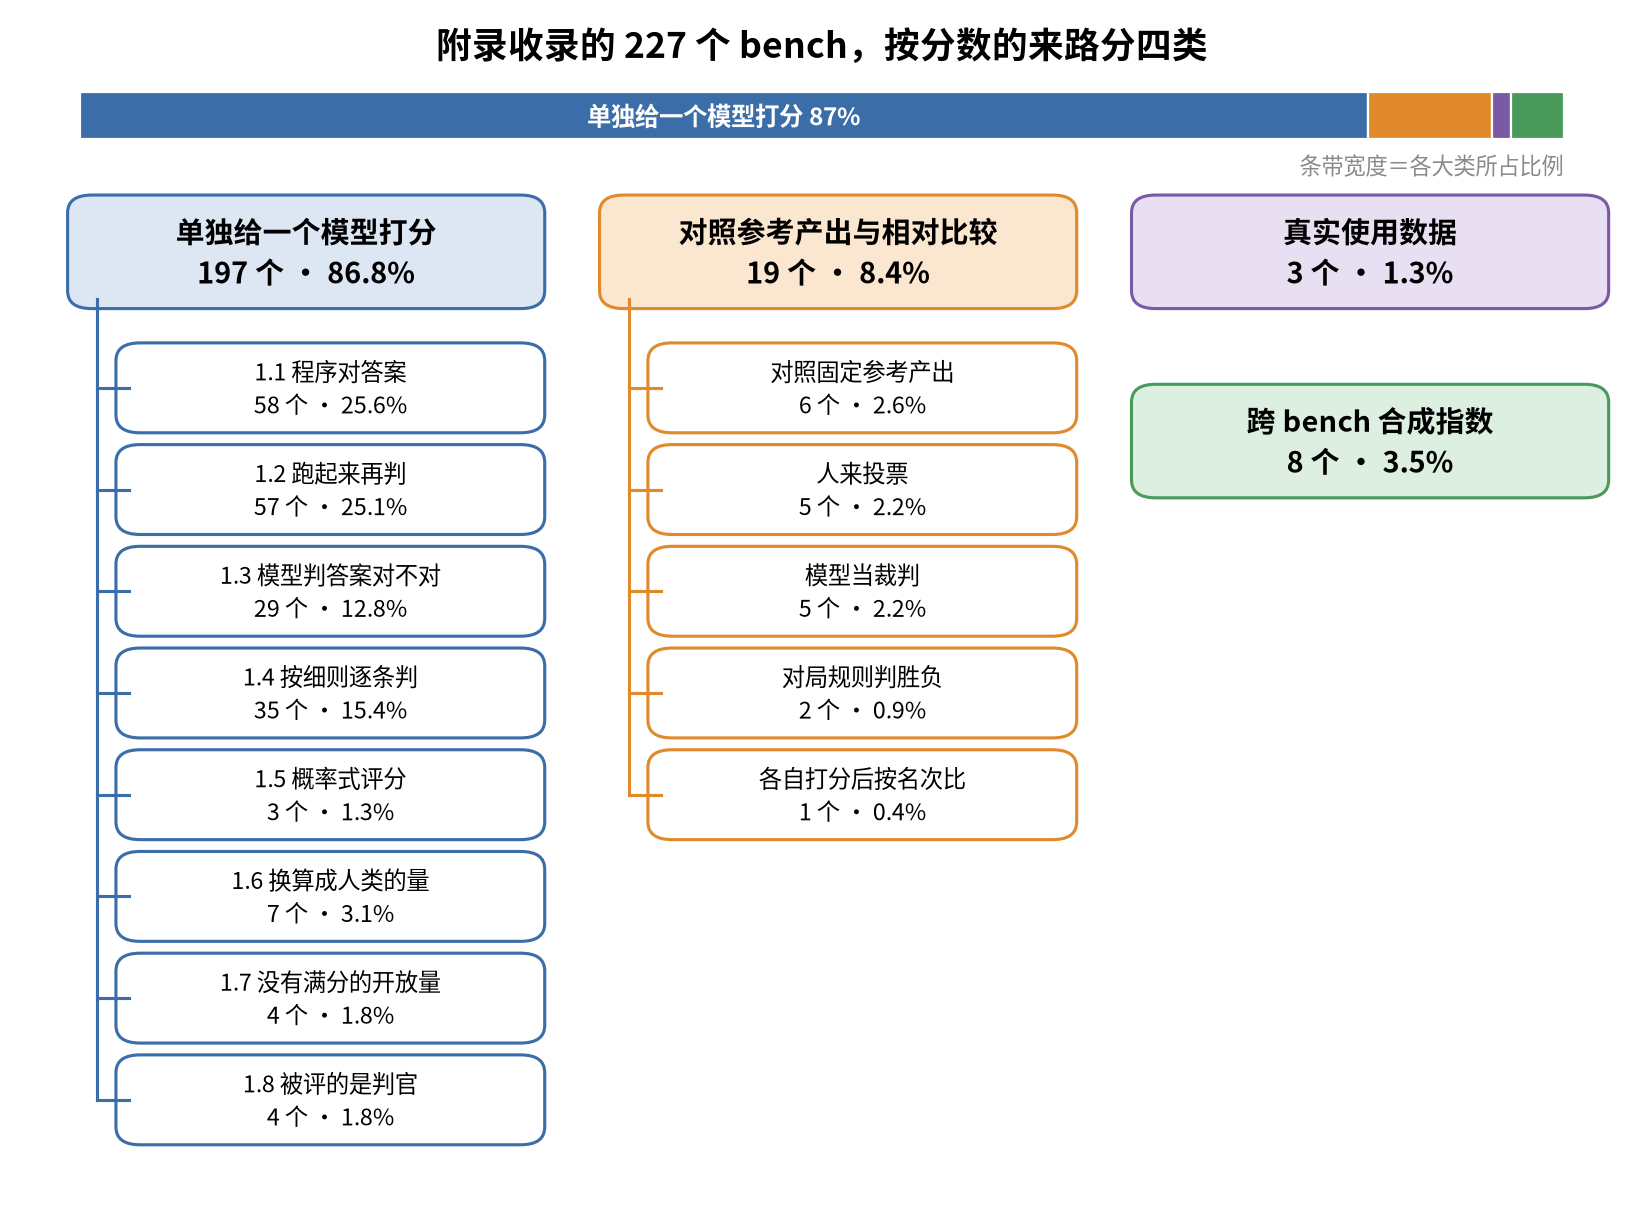
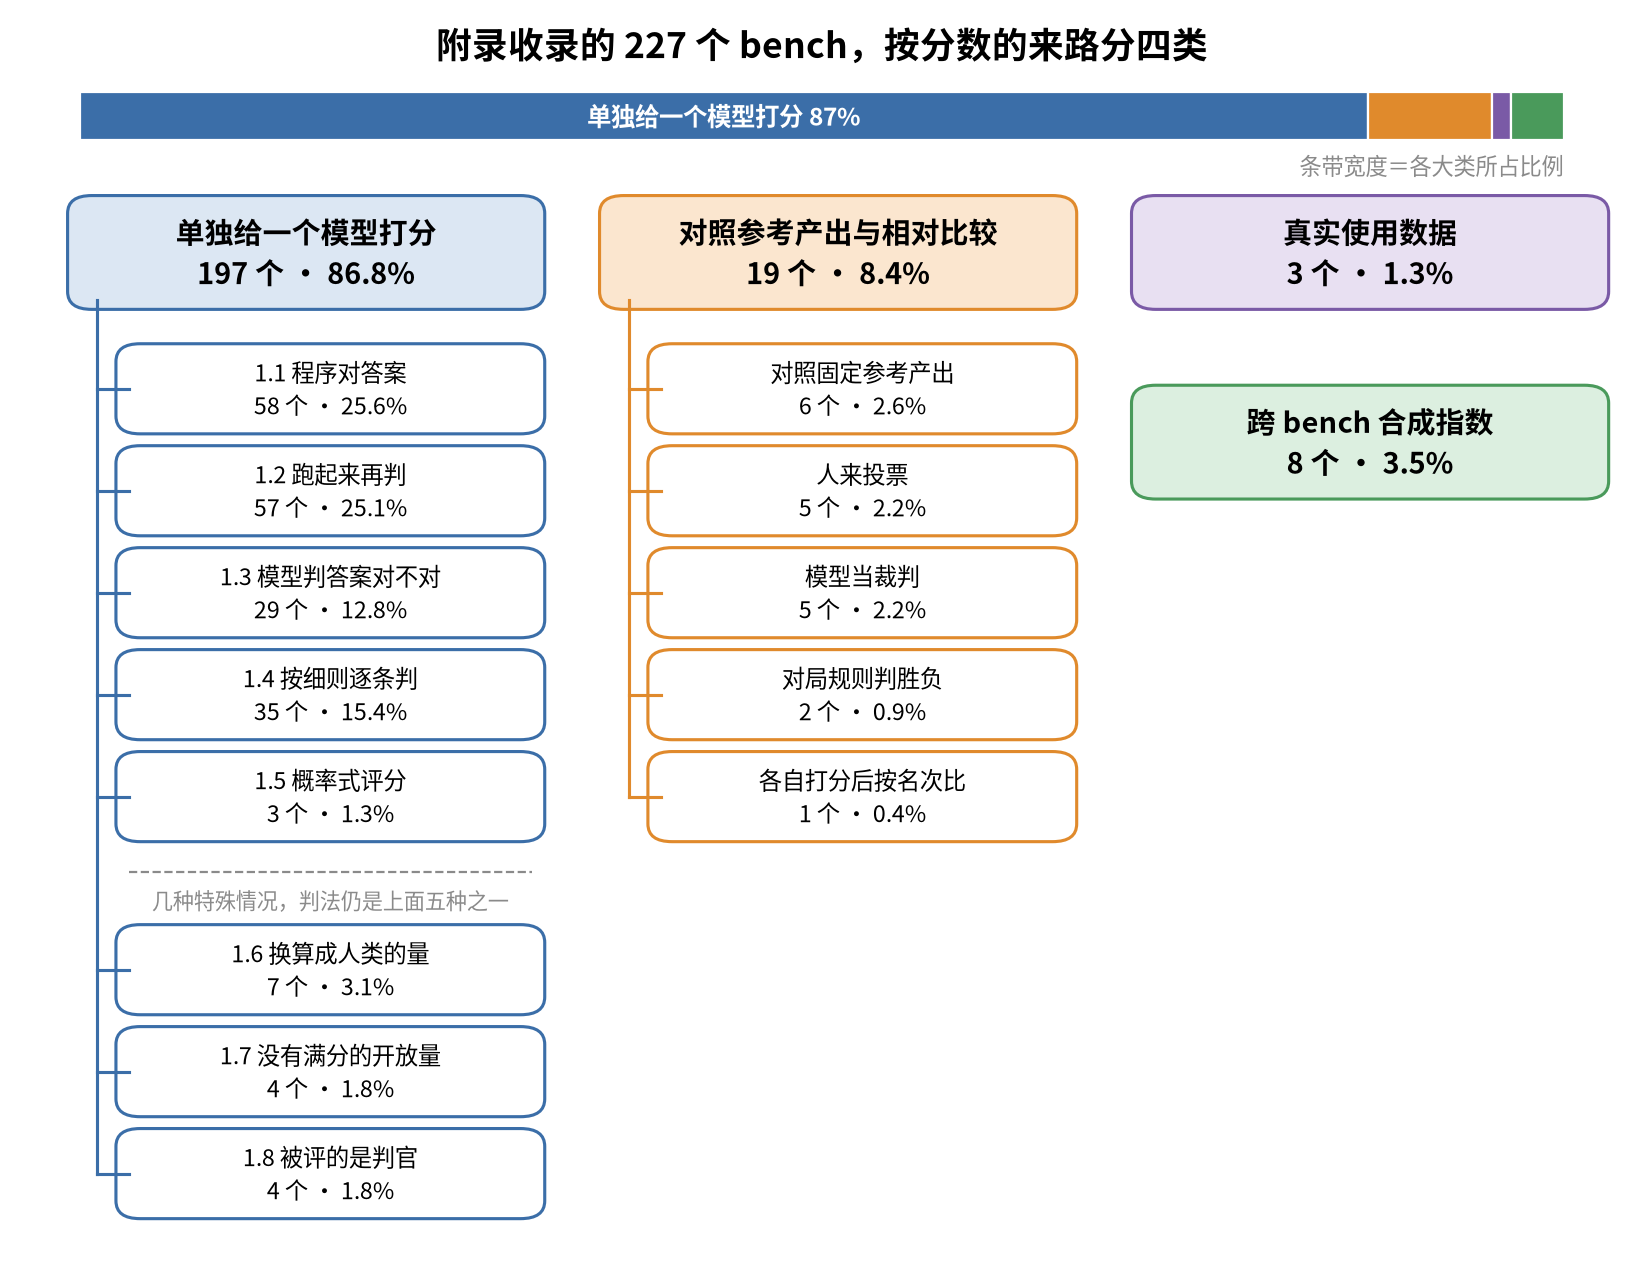
总流程图分出先投票再判的一路，第一章特殊小类单独分组，修正指数增量和 ARC-AGI-3 游戏分公式

Changed region(s): [[0.031, 0.1524, 0.6515, 0.9753], [0.062, 0.0, 0.9927, 0.4267]]

diff --git a/scripts/make_figures.py b/scripts/make_figures.py
@@ -65,8 +65,8 @@ def overview():
         ("真实使用数据", PURPLE, []),
         ("跨 bench 合成指数", GREEN, []),
     ]
-    fig, ax = plt.subplots(figsize=(13, 9.6))
-    ax.set_xlim(0, 1); ax.set_ylim(0, 1); ax.axis("off")
+    fig, ax = plt.subplots(figsize=(13, 10.2))
+    ax.set_xlim(0, 1); ax.set_ylim(-0.06, 1); ax.axis("off")
     ax.text(0.5, 0.975, f"附录收录的 {total} 个 bench，按分数的来路分四类", ha="center", va="center", fontsize=16, weight="bold")
     x = 0.04
     for name, color, _ in cols:
@@ -84,8 +84,13 @@ def overview():
             continue
         h, gap = 0.06, 0.026
         y = y0 - 0.045
-        ax.plot([x0 + 0.01, x0 + 0.01], [y0, y - (len(subs) - 1) * (h + gap) - h / 2], color=color, lw=1.4)
-        for s in subs:
+        extra = 0.06 if len(subs) > 5 and subs[5].startswith("1.6") else 0
+        ax.plot([x0 + 0.01, x0 + 0.01], [y0, y - (len(subs) - 1) * (h + gap) - h / 2 - extra], color=color, lw=1.4)
+        for i, s in enumerate(subs):
+            if extra and i == 5:
+                ax.plot([x0 + 0.03, x0 + w], [y - 0.008, y - 0.008], color=GREY, lw=1, ls="--")
+                ax.text(x0 + 0.03 + (w - 0.03) / 2, y - 0.032, "几种特殊情况，判法仍是上面五种之一", ha="center", va="center", fontsize=9.5, color=GREY)
+                y -= extra
             n = sub[s]
             ax.plot([x0 + 0.01, x0 + 0.03], [y - h / 2, y - h / 2], color=color, lw=1.4)
             box(ax, x0 + 0.03, y - h, w - 0.03, h, f"{s}\n{n} 个 · {n / total:.1%}", color, fs=10.5, fill="white")
@@ -115,19 +120,27 @@ def pipeline():
         ("模型输出", "一段回答、一份补丁\n或一串操作", GREY),
         ("判一道题", "程序对答案、跑测试\n模型判官、两两比较", BLUE),
         ("合并多条判定", "多条细则、多个判官\n门控和阈值", BLUE),
-        ("合并多次采样", "平均、至少对一次\n每次都对、投票", PURPLE),
+        ("合并多次采样", "平均、至少对一次\n每次都对", PURPLE),
         ("整套题合成总分", "平均、拟合对局\n换算成人类的量", GREEN),
         ("跨 bench 合成", "加权指数\n联合拟合", GREEN),
     ]
-    fig, ax = plt.subplots(figsize=(14, 3.3))
+    fig, ax = plt.subplots(figsize=(14, 4.6))
     ax.set_xlim(0, 1); ax.set_ylim(0, 1); ax.axis("off")
     w, gap = 0.145, 0.025
+    by = 0.36
     for i, (t, d, c) in enumerate(steps):
         x = 0.01 + i * (w + gap)
-        box(ax, x, 0.52, w, 0.3, t, c, fs=13, weight="bold")
-        ax.text(x + w / 2, 0.3, d, ha="center", va="center", fontsize=10.5, color="#444444", linespacing=1.5)
+        box(ax, x, by, w, 0.2, t, c, fs=13, weight="bold")
+        ax.text(x + w / 2, by - 0.12, d, ha="center", va="center", fontsize=10.5, color="#444444", linespacing=1.5)
         if i < len(steps) - 1:
-            arrow(ax, x + w + 0.002, 0.67, x + w + gap - 0.002, 0.67)
+            arrow(ax, x + w + 0.002, by + 0.1, x + w + gap - 0.002, by + 0.1)
+    # 另一条路：先对答案投票或挑一个，再判
+    x0 = 0.01; x1 = 0.01 + (w + gap)
+    bx, bw = x0 + w * 0.3, x1 + w * 0.7 - (x0 + w * 0.3)
+    box(ax, bx, 0.74, bw, 0.16, "多次采样先对答案投票或挑一个\n（maj@k、选择器）", PURPLE, fs=10.5)
+    arrow(ax, x0 + w * 0.5, by + 0.2, bx + 0.01, 0.74)
+    arrow(ax, bx + bw - 0.01, 0.74, x1 + w * 0.5, by + 0.2)
+    ax.text(bx + bw + 0.025, 0.82, "另一条路：先合答案，再判", ha="left", va="center", fontsize=10.5, color=PURPLE)
     ax.text(0.5, 0.02, "每一步都有几种做法，选哪一种都会改变最后的数字", ha="center", fontsize=11, color=GREY)
     save(fig, "pipeline.png")
 

diff --git a/book/chapter5.md b/book/chapter5.md
@@ -14,7 +14,7 @@ $$
 \operatorname{norm}(\text{Elo})=\operatorname{clamp}\Big(\frac{\text{Elo}-500}{2000},\,0,\,1\Big)
 $$
 
-Elo 1100 对应 0.30，1600 对应 0.55，2600 以上一律是 1。一个虚构模型：Briefcase 1300（0.40）、GDPval-AA 1600（0.55），其余八项依次是 0.50、0.40、0.45、0.50、0.60、0.30、0.70、0.30、0.10，按权重加起来是 0.41，指数 41（`python3 scripts/basics.py` §10）。归一化区间决定了组件的实际分量：Elo 每涨 100 分，只给指数加 $0.05\times w$。3.8 节说过，这两项的 Elo 在模型进入指数时就冻结了。AA 明说权重偏向 agent 任务，指数的版本号一变，组件、判官、锚点都可能跟着变，跨版本不能比（[AA 方法页](https://artificialanalysis.ai/methodology/intelligence-benchmarking)）。
+Elo 1100 对应 0.30，1600 对应 0.55，2600 以上一律是 1。一个虚构模型：Briefcase 1300（0.40）、GDPval-AA 1600（0.55），其余八项依次是 0.50、0.40、0.45、0.50、0.60、0.30、0.70、0.30、0.10，按权重加起来是 0.41，指数 41（`python3 scripts/basics.py` §10）。归一化区间决定了组件的实际分量：Elo 每涨 100 分，组件分只涨 0.05，在没碰到上下限时只给指数加 $5\times w$ 分，权重 15% 就是 0.75 分。3.8 节说过，这两项的 Elo 在模型进入指数时就冻结了。AA 明说权重偏向 agent 任务，指数的版本号一变，组件、判官、锚点都可能跟着变，跨版本不能比（[AA 方法页](https://artificialanalysis.ai/methodology/intelligence-benchmarking)）。
 
 权重是编辑的选择，也就是一种价值判断。Vals Index 把这一点摆到了明面上，按各行业在美国 GDP 中的占比加权。
 
